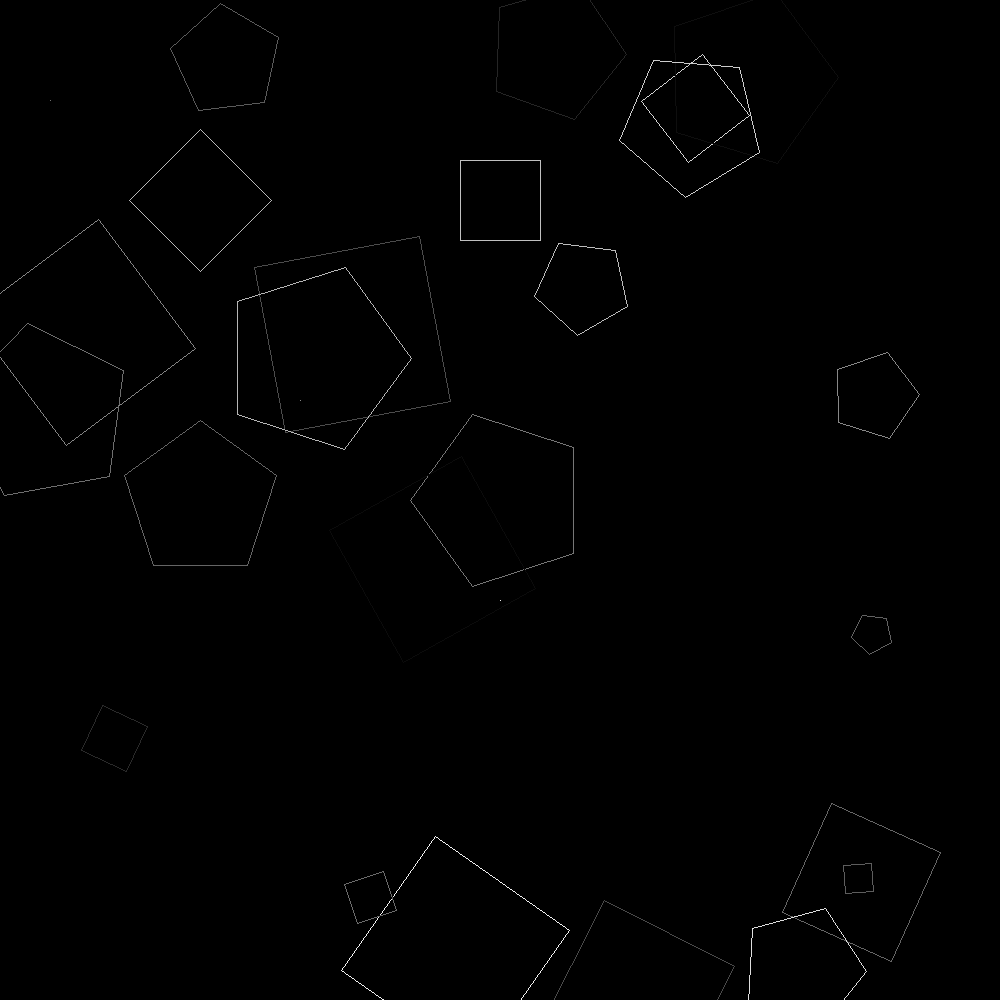
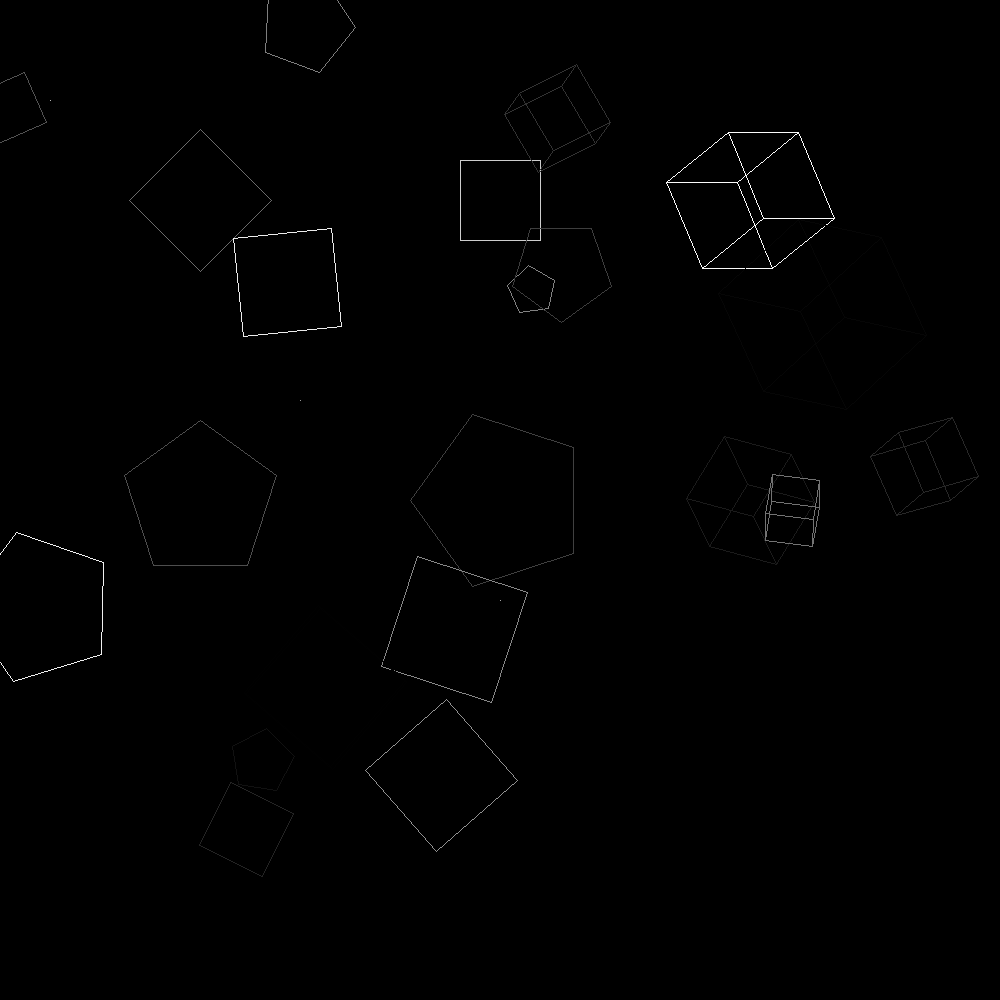
cube done with rotation as a polymorph

Changed region(s): [[0.806, 0.496, 0.837, 0.527], [0.744, 0.496, 0.775, 0.527]]

diff --git a/GeometricalShapes/Cube.java b/GeometricalShapes/Cube.java
@@ -1,0 +1,169 @@
+package GeometricalShapes;
+
+import java.awt.Color;
+
+public class Cube implements Drawable {
+    private final Point center;
+    private final int size;
+    private final double rotationX;
+    private final double rotationY;
+    private final double rotationZ;
+    private final Color color;
+
+    public Cube(Point center, int size, double rotationX, double rotationY, double rotationZ) {
+        this.center = center;
+        this.size = size;
+        this.rotationX = rotationX;
+        this.rotationY = rotationY;
+        this.rotationZ = rotationZ;
+        this.color = getColor();
+    }
+
+    public Cube(Point center, int size) {
+        this(center, size, 30, 45, 0);
+    }
+
+    @Override
+    public void draw(Displayable displayable) {
+        int maxWidth = 10000;
+        int maxHeight = 10000;
+        if (displayable instanceof Image) {
+            maxWidth = ((Image) displayable).getWidth();
+            maxHeight = ((Image) displayable).getHeight();
+        }
+
+        Point[] vertices = calculateVertices();
+
+        drawEdge(displayable, vertices[0], vertices[1], maxWidth, maxHeight);
+        drawEdge(displayable, vertices[1], vertices[2], maxWidth, maxHeight);
+        drawEdge(displayable, vertices[2], vertices[3], maxWidth, maxHeight);
+        drawEdge(displayable, vertices[3], vertices[0], maxWidth, maxHeight);
+
+        drawEdge(displayable, vertices[4], vertices[5], maxWidth, maxHeight);
+        drawEdge(displayable, vertices[5], vertices[6], maxWidth, maxHeight);
+        drawEdge(displayable, vertices[6], vertices[7], maxWidth, maxHeight);
+        drawEdge(displayable, vertices[7], vertices[4], maxWidth, maxHeight);
+
+        drawEdge(displayable, vertices[0], vertices[4], maxWidth, maxHeight);
+        drawEdge(displayable, vertices[1], vertices[5], maxWidth, maxHeight);
+        drawEdge(displayable, vertices[2], vertices[6], maxWidth, maxHeight);
+        drawEdge(displayable, vertices[3], vertices[7], maxWidth, maxHeight);
+    }
+
+    private Point[] calculateVertices() {
+        Point[] vertices = new Point[8];
+        double half = size / 2.0;
+
+        double[][] cubePoints = {
+            {-half, -half, -half},
+            {half, -half, -half},
+            {half, half, -half},
+            {-half, half, -half},
+            {-half, -half, half},
+            {half, -half, half},
+            {half, half, half},
+            {-half, half, half}
+        };
+
+        double radX = Math.toRadians(rotationX);
+        double radY = Math.toRadians(rotationY);
+        double radZ = Math.toRadians(rotationZ);
+
+        double cosX = Math.cos(radX);
+        double sinX = Math.sin(radX);
+        double cosY = Math.cos(radY);
+        double sinY = Math.sin(radY);
+        double cosZ = Math.cos(radZ);
+        double sinZ = Math.sin(radZ);
+
+        for (int i = 0; i < 8; i++) {
+            double x = cubePoints[i][0];
+            double y = cubePoints[i][1];
+            double z = cubePoints[i][2];
+
+            double tempY = y * cosX - z * sinX;
+            double tempZ = y * sinX + z * cosX;
+            y = tempY;
+            z = tempZ;
+
+            double tempX = x * cosY + z * sinY;
+            tempZ = -x * sinY + z * cosY;
+            x = tempX;
+            z = tempZ;
+
+            tempX = x * cosZ - y * sinZ;
+            tempY = x * sinZ + y * cosZ;
+            x = tempX;
+            y = tempY;
+
+            int screenX = (int) Math.round(center.getX() + x);
+            int screenY = (int) Math.round(center.getY() + y);
+
+            vertices[i] = new Point(screenX, screenY);
+        }
+
+        return vertices;
+    }
+
+    private void drawEdge(Displayable displayable, Point p1, Point p2, int maxWidth, int maxHeight) {
+        int x1 = p1.getX(), y1 = p1.getY();
+        int x2 = p2.getX(), y2 = p2.getY();
+
+        int dx = Math.abs(x2 - x1);
+        int dy = Math.abs(y2 - y1);
+        int sx = x1 < x2 ? 1 : -1;
+        int sy = y1 < y2 ? 1 : -1;
+        int err = dx - dy;
+
+        while (true) {
+            if (x1 >= 0 && y1 >= 0 && x1 < maxWidth && y1 < maxHeight) {
+                displayable.display(x1, y1, this.color);
+            }
+
+            if (x1 == x2 && y1 == y2) break;
+
+            int e2 = 2 * err;
+            if (e2 > -dy) {
+                err -= dy;
+                x1 += sx;
+            }
+            if (e2 < dx) {
+                err += dx;
+                y1 += sy;
+            }
+        }
+    }
+
+    public static Cube random(int maxWidth, int maxHeight) {
+        java.util.Random rand = new java.util.Random();
+
+        int x = rand.nextInt(maxWidth);
+        int y = rand.nextInt(maxHeight);
+        int size = 30 + rand.nextInt(100);
+        double rotX = rand.nextDouble() * 360;
+        double rotY = rand.nextDouble() * 360;
+        double rotZ = rand.nextDouble() * 360;
+
+        return new Cube(new Point(x, y), size, rotX, rotY, rotZ);
+    }
+
+    public Point getCenter() {
+        return center;
+    }
+
+    public int getSize() {
+        return size;
+    }
+
+    public double getRotationX() {
+        return rotationX;
+    }
+
+    public double getRotationY() {
+        return rotationY;
+    }
+
+    public double getRotationZ() {
+        return rotationZ;
+    }
+}

diff --git a/Main.java b/Main.java
@@ -26,14 +26,25 @@ public class Main {
         Pentagon pentagon2 = new Pentagon(new Point(500, 500), 90, 36);
         pentagon2.draw(image);
 
-        for (int i = 0; i < 10; i++) {
+        Cube cube1 = new Cube(new Point(750, 200), 100, 30, 45, 0);
+        cube1.draw(image);
+
+        Cube cube2 = new Cube(new Point(750, 500), 80, 60, 30, 15);
+        cube2.draw(image);
+
+        for (int i = 0; i < 5; i++) {
             Square randomSquare = Square.random(image.getWidth(), image.getHeight());
             randomSquare.draw(image);
         }
 
-        for (int i = 0; i < 10; i++) {
+        for (int i = 0; i < 5; i++) {
             Pentagon randomPentagon = Pentagon.random(image.getWidth(), image.getHeight());
             randomPentagon.draw(image);
+        }
+
+        for (int i = 0; i < 5; i++) {
+            Cube randomCube = Cube.random(image.getWidth(), image.getHeight());
+            randomCube.draw(image);
         }
 
         // Uncomment these to test other shapes
